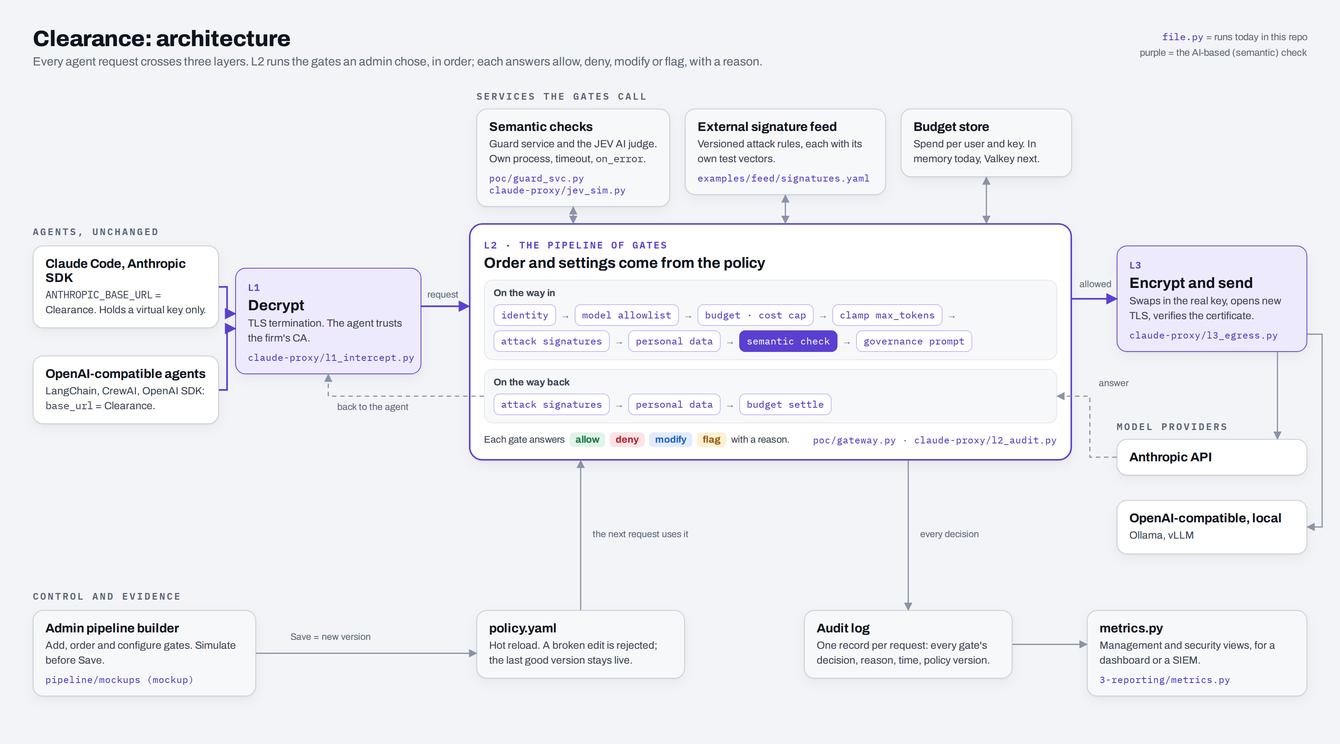
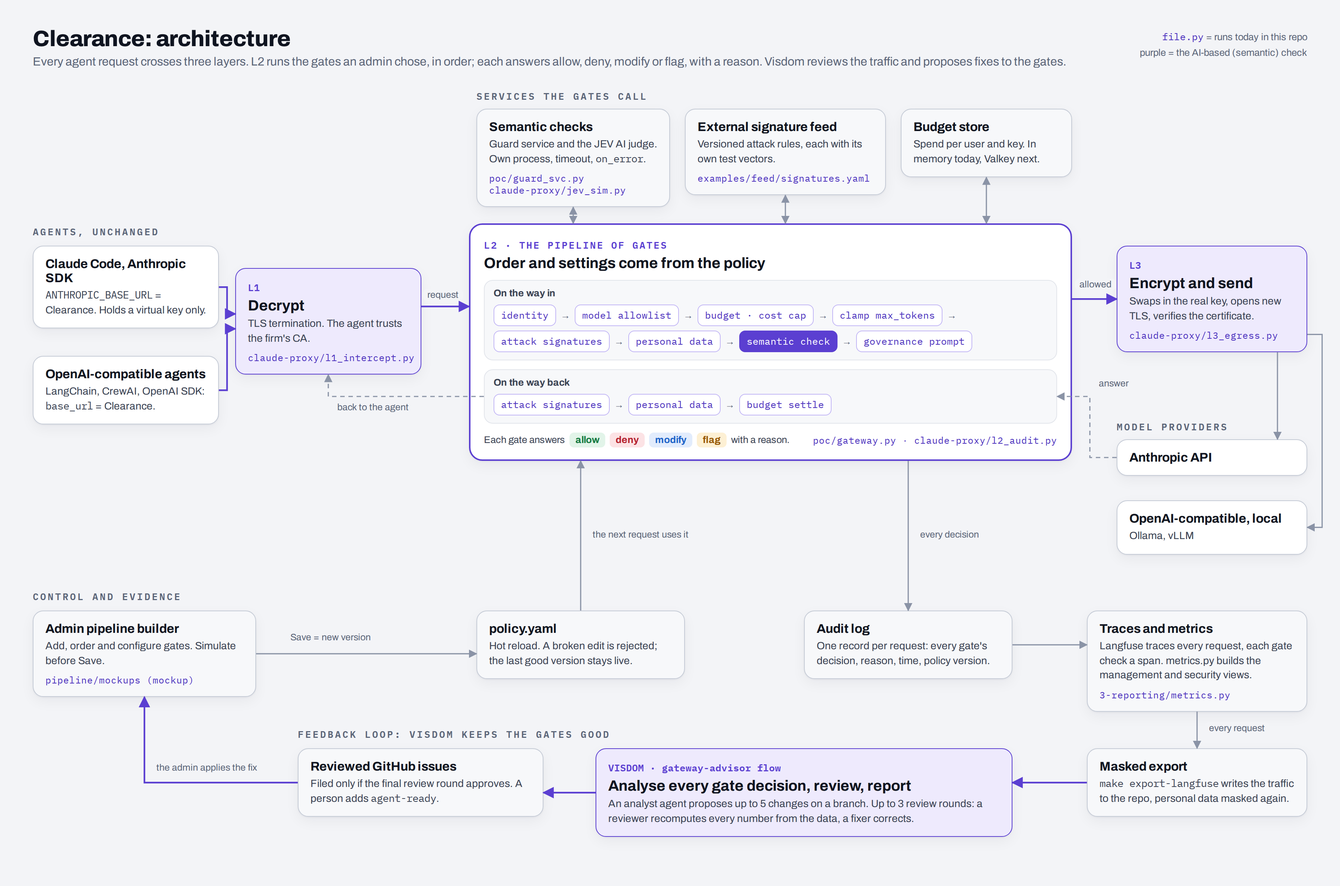
Visdom feedback loop in the submission folders: built with Visdom, gate-quality report, screenshots
- README: "Clearance enforces, Visdom improves" line with a link to how it works
- 1-solution: approach point 6, the live demo build, and the feedback loop (trace in Langfuse ->
  masked export -> Visdom gateway-advisor: analyst, up to 3 review rounds, issues only on approval)
  with the first run's findings and the three mistakes the reviewers caught
- 2-architecture: feedback lane in the diagram, loop components, gate-time share on real traffic
- 3-reporting: demo chat, Langfuse, export and Visdom screenshots (frames from the demo video),
  live-build metrics, gate-quality report
- 4-testing: testing on live traffic; each advisor finding becomes a test case
- 5-implementation: Built with Visdom section; advisor findings first in the next steps

Claude-Session: https://claude.ai/code/session_017G8raWWUm1cMXdBZfFw6tt

diff --git a/2-architecture/architecture.html b/2-architecture/architecture.html
@@ -9,7 +9,7 @@
   :root { --ink:#0f1420; --ink2:#3a4252; --ink3:#5b6578; --line:#c5cbd6; --soft:#f7f8fa; --accent:#5b3fd1; --accent2:#4a2fbd; --asoft:#eeeafd; --aline:#c2b6f5; }
   * { box-sizing: border-box; margin: 0; }
   body { background: #f3f4f7; font-family: "Archivo", Arial, sans-serif; color: var(--ink); }
-  #canvas { position: relative; width: 1800px; height: 1000px; padding: 36px 44px; background: #f3f4f7; }
+  #canvas { position: relative; width: 1800px; height: 1190px; padding: 36px 44px; background: #f3f4f7; }
   h1 { font-size: 30px; font-weight: 800; letter-spacing: -0.5px; }
   .sub { font-size: 16px; color: var(--ink3); margin-top: 6px; }
   .mono { font-family: "IBM Plex Mono", monospace; }
@@ -35,7 +35,7 @@
   .d { font-weight: 700; padding: 3px 8px; border-radius: 6px; }
   .allow { background: #e2f4e9; color: #11793f; } .deny { background: #fce3e5; color: #b4202d; }
   .modify { background: #e2ecfc; color: #1c63c9; } .flag { background: #fdf0d4; color: #975800; }
-  svg#wires { position: absolute; left: 0; top: 0; width: 1800px; height: 1000px; pointer-events: none; overflow: visible; }
+  svg#wires { position: absolute; left: 0; top: 0; width: 1800px; height: 1190px; pointer-events: none; overflow: visible; }
   .wl { position: absolute; font-size: 12.5px; color: var(--ink3); background: #f3f4f7; padding: 1px 6px; border-radius: 6px; white-space: nowrap; }
   .legend { position: absolute; right: 44px; top: 40px; font-size: 13px; color: var(--ink3); text-align: right; line-height: 1.6; }
 </style>
@@ -43,7 +43,7 @@
 <body>
 <div id="canvas">
   <h1>Clearance: architecture</h1>
-  <div class="sub">Every agent request crosses three layers. L2 runs the gates an admin chose, in order; each answers allow, deny, modify or flag, with a reason.</div>
+  <div class="sub">Every agent request crosses three layers. L2 runs the gates an admin chose, in order; each answers allow, deny, modify or flag, with a reason. Visdom reviews the traffic and proposes fixes to the gates.</div>
   <div class="legend"><span class="mono" style="color:#4a2fbd">file.py</span> = runs today in this repo<br>purple = the AI-based (semantic) check</div>
 
   <div class="band" style="left:640px; top:118px">Services the gates call</div>
@@ -99,8 +99,17 @@
   <div class="card svc" id="aud" style="left:1080px; top:820px; width:280px">
     <h3>Audit log</h3><p>One record per request: every gate's decision, reason, time, policy version.</p></div>
   <div class="card svc" id="met" style="left:1460px; top:820px; width:296px">
-    <h3>metrics.py</h3><p>Management and security views, for a dashboard or a SIEM.</p>
+    <h3>Traces and metrics</h3><p>Langfuse traces every request, each gate check a span. metrics.py builds the management and security views.</p>
     <div class="file">3-reporting/metrics.py</div></div>
+
+  <div class="band" style="left:400px; top:975px">Feedback loop: Visdom keeps the gates good</div>
+  <div class="card svc" id="gi" style="left:400px; top:1005px; width:330px">
+    <h3>Reviewed GitHub issues</h3><p>Filed only if the final review round approves. A person adds <span class="mono">agent-ready</span>.</p></div>
+  <div class="card layer" id="va" style="left:800px; top:1005px; width:560px">
+    <div class="tag">VISDOM · gateway-advisor flow</div><h3>Analyse every gate decision, review, report</h3>
+    <p>An analyst agent proposes up to 5 changes on a branch. Up to 3 review rounds: a reviewer recomputes every number from the data, a fixer corrects.</p></div>
+  <div class="card svc" id="fx" style="left:1460px; top:1005px; width:296px">
+    <h3>Masked export</h3><p><span class="mono">make export-langfuse</span> writes the traffic to the repo, personal data masked again.</p></div>
 
   <svg id="wires"><defs>
     <marker id="a" viewBox="0 0 10 10" refX="9" refY="5" markerWidth="7" markerHeight="7" orient="auto-start-reverse"><path d="M0,0 L10,5 L0,10 z" fill="#8a93a6"/></marker>
@@ -126,6 +135,7 @@ function draw() {
   }
   const cc = r('cc'), oa = r('oa'), l1 = r('l1'), l2 = r('l2'), l3 = r('l3'), anth = r('anth'), oss = r('oss');
   const back = r('back'), sem = r('sem'), feed = r('feed'), bud = r('bud'), adm = r('adm'), pol = r('pol'), aud = r('aud'), met = r('met');
+  const gi = r('gi'), va = r('va'), fx = r('fx');
   const mx = (cc.r + l1.l) / 2;
   wire(`M${cc.r},${cc.cy} H${mx} V${l1.cy - 10} H${l1.l}`, { purple: true });
   wire(`M${oa.r},${oa.cy} H${mx} V${l1.cy + 10} H${l1.l}`, { purple: true });
@@ -140,6 +150,10 @@ function draw() {
   wire(`M${aud.cx},${l2.b} V${aud.t}`, { label: 'every decision', lx: aud.cx + 10, ly: (aud.t + l2.b) / 2 - 10 });
   wire(`M${adm.r},${adm.cy} H${pol.l}`, { label: 'Save = new version', lx: adm.r + 40, ly: adm.cy - 30 });
   wire(`M${aud.r},${aud.cy} H${met.l}`, {});
+  wire(`M${met.cx},${met.b} V${fx.t}`, { label: 'every request', lx: met.cx + 10, ly: (met.b + fx.t) / 2 - 10 });
+  wire(`M${fx.l},${fx.cy} H${va.r}`, { purple: true });
+  wire(`M${va.l},${va.cy} H${gi.r}`, { purple: true });
+  wire(`M${gi.l},${gi.cy} H${adm.cx} V${adm.b}`, { purple: true, label: 'the admin applies the fix', lx: adm.cx + 10, ly: gi.cy - 28 });
   document.body.dataset.ready = '1';
 }
 document.fonts.ready.then(draw);

diff --git a/2-architecture/render.js b/2-architecture/render.js
@@ -1,4 +1,4 @@
-// Renders architecture.html to architecture.png (1800x1000 at 2x) with Playwright + Chromium.
+// Renders architecture.html to architecture.png (1800x1190 at 2x) with Playwright + Chromium.
 // Usage from the repo root: NODE_PATH=$(npm root -g) node 2-architecture/render.js
 // Optional FONTS_DIR=/dir/with/fonts.css serves local font copies when Google Fonts can't be reached.
 const fs = require('fs');
@@ -7,7 +7,7 @@ const { chromium } = require('playwright');
 
 (async () => {
   const browser = await chromium.launch();
-  const page = await browser.newPage({ viewport: { width: 1800, height: 1000 }, deviceScaleFactor: 2 });
+  const page = await browser.newPage({ viewport: { width: 1800, height: 1200 }, deviceScaleFactor: 2 });
   const fonts = process.env.FONTS_DIR;
   if (fonts) {
     await page.route('https://fonts.googleapis.com/**', r => r.fulfill({ contentType: 'text/css', body: fs.readFileSync(path.join(fonts, 'fonts.css'), 'utf8') }));

diff --git a/1-solution/README.md b/1-solution/README.md
@@ -24,11 +24,16 @@ and says why. The model's answer goes back through gates too, and every decision
 4. **Both directions.** Response gates check the model's answer: PII, exfiltration links, the real cost.
 5. **Fail closed, explain everything.** By default, a gate that errors or times out means deny. Admins can
    change this per gate. Every decision carries a reason.
+6. **A feedback loop keeps the gates good.** Rules age: a filter starts blocking innocent questions, and new
+   kinds of personal data slip through. [Visdom](https://visdom.virtuslab.com/), VirtusLab's AI-native SDLC
+   platform, reads the gateway's traced traffic, analyses every gate decision, and proposes reviewed fixes
+   ([below](#keeping-the-gates-good-the-visdom-feedback-loop)).
 
-## What exists in this repo
+## What we built
 
 | Part | What it is | State |
 |---|---|---|
+| Live demo build (shown in the demo video) | A demo chat whose every message passes the gateway: `access` → `pii_filter` → `word_filter` → `classifier` (an AI judge for prompt injection) → `jev_checker` (an open model run locally). An admin panel configures and reorders the gates. Langfuse traces every request. The Visdom `gateway-advisor` flow closes the loop | **Runs.** It lives in the team's working repository, not in this one. Screenshots in [`3-reporting/`](../3-reporting/) |
 | [`claude-proxy/`](../claude-proxy/) | The 3-layer proxy for Claude traffic. L1 TLS interception; L2 audit (identity, model allowlist, worst-case cost, budget, AI judge "JEV"); L3 key swap and verified TLS | **Runs.** 13 scenarios pass. The JEV judge is simulated |
 | [`poc/`](../poc/) | The L2 gate pipeline for OpenAI-compatible traffic. 9 gates in policy order, a separate semantic-check service, the external signature feed, a live control plane, an audit log | **Runs.** Every gate is tested |
 | [`pipeline/`](../pipeline/) | The gate contract (JSON envelope), an example pipeline, a latency benchmark, and the admin **pipeline builder** (16 gate types, Simulate, audit chain) | Contract and benchmark run. The builder is an interactive mockup |
@@ -60,9 +65,10 @@ All of these run in Python today. The **Test** column names the automated test i
 | 13 | **Live policy with last-known-good** | Edits apply to the next request. A broken edit or an unknown gate is rejected, and the previous policy stays active | n/a | both | `test_broken_policy_edit_keeps_the_last_good_policy` |
 | 14 | **Audit record per request** | Every gate's decision and reason, timing, policy version | n/a | both | `test_every_request_leaves_one_audit_record` |
 
-\* **Honest status.** `guard_svc.py` scores weighted phrases, and `jev_sim.py` simulates the AI judge. Both stand in for a
-classifier and expose the same HTTP contract. Swapping in a real model (for example Llama Prompt Guard, Qwen3Guard or a
-hosted judge) only changes the URL.
+\* **Honest status.** In this repo's prototypes, `guard_svc.py` scores weighted phrases, and `jev_sim.py` simulates the AI judge.
+Both stand in for a classifier and expose the same HTTP contract. Swapping in a real model (for example Llama Prompt Guard,
+Qwen3Guard or a hosted judge) only changes the URL. The live demo build already runs real models: `classifier` is an AI
+judge (in the demo it stops a prompt injection at 97 % and says why), and `jev_checker` runs an open model locally.
 
 **Designed and shown in the admin mockup, not yet in Python:**
 - `normalize`: invisible characters, look-alike letters, leetspeak.
@@ -134,16 +140,55 @@ request:
 
 The contract (JSON envelope in, allow / deny / modify / flag plus a reason out) is in [`pipeline/contract.md`](../pipeline/contract.md).
 
+## Keeping the gates good: the Visdom feedback loop
+
+Gates are only as good as their rules, and traffic keeps changing. A filter starts blocking innocent questions, or a new
+kind of personal data slips through. Tests can't catch that, because they only check the rules someone already wrote.
+So a second system supervises Clearance: [Visdom](https://visdom.virtuslab.com/), VirtusLab's AI-native SDLC platform.
+It reads the gateway's traced traffic, analyses every gate decision, and proposes reviewed fixes to the team.
+
+1. **Trace.** The gateway traces every request in Langfuse, blocked ones included. Each gate check is its own span,
+   next to the model call, with cost and tokens.
+2. **Export.** `make export-langfuse` writes the traffic to `analytics/langfuse-export.json` in the repository. Each record
+   holds the outcome, every gate's verdict, the user's prompt and the prompt as sent. Personal data is masked again
+   on the way out, so the file holds no raw PESEL, e-mail or IBAN.
+3. **Analyse.** The Visdom flow `gateway-advisor` starts. An analyst agent (Opus) reads the export and proposes up to
+   five changes on a branch.
+4. **Review.** Up to three review rounds follow. A reviewer agent recomputes every number from the data, and a fixer
+   agent (Sonnet) corrects what doesn't hold. A round that approves ends the loop early.
+5. **Report.** Only an approved final round files GitHub issues, labelled `gateway-advisor`. A person adds `agent-ready`
+   before anyone acts on one. The admin then applies the fix in the admin panel, and the next request uses it.
+
+Visdom works on the exported traffic, outside the request path, so it never slows a request down.
+
+![The gateway-advisor run: flow, analyst summary, proposals under review](../3-reporting/screenshots/visdom-advisor-findings.jpg)
+
+**The first run, on our own traffic.** 59 gateway calls and 360 gate verdicts (46 passed, 13 stopped), 38 minutes from trigger to result:
+
+| Proposal | What the analyst found |
+|---|---|
+| fix `pii_filter` | A Polish ID card number and a NIP (tax number) reached the model |
+| fix `word_filter` | 3 of its 6 blocks were innocent words: matching on word prefixes gives 50 % false alarms |
+| add `output_guard` | No gate checks the model's answers. None of the 46 answers was checked |
+| tune `classifier` | It takes 82.8 % of gate time. Lower its threshold from 50 to 25, and cache repeated prompts: 57 % of its time goes to duplicates |
+| tune `jev_checker` | It never fired: its p(yes) stayed at 0.01–0.05 even on obvious prompt injections, while it took 16.6 % of gate time |
+
+The reviewers did their job too. Each of the three rounds found a real problem in the analyst's own proposals:
+a count that did not reproduce, an either/or remedy, and a regex that missed its own criterion. The fixer corrected
+each one. No round approved the final set, so no issue was filed and nothing unreviewed reached the team. A resume
+flow re-reviews the branch and files the issues once a round approves.
+
 ## How this answers the brief
 
 | The task asks for | Where |
 |---|---|
 | Centralised policy engine: thresholds, block vs redact, models, budgets | one policy file per gateway, hot-reloaded; [three profiles](profiles/) |
 | Deterministic controls (PII, secrets, authentication, access) | guardrails 1–7, 11, 12 above (secrets scanning: mockup only so far) |
-| Semantic, AI-based controls | guardrails 8–10 (simulated models behind real service contracts) |
+| Semantic, AI-based controls | guardrails 8–10: simulated models behind real service contracts in the prototypes; an AI judge and a local open model in the live build |
 | Budgets for commercial APIs and local models | guardrails 3–5; `upstreams` routes local models (Ollama) through the same gates |
 | Historical attacks from an externally managed feed | guardrail 7: [`examples/feed/signatures.yaml`](../examples/feed/signatures.yaml), each rule self-tested on load |
-| Reporting for management and security | [`3-reporting/`](../3-reporting/) |
+| Reporting for management and security | [`3-reporting/`](../3-reporting/): audit records, metrics, Langfuse traces |
 | Self-testing suite | [`4-testing/`](../4-testing/): 76 + 120 checks |
+| Guardrails that stay right as traffic changes (beyond the brief) | the [Visdom feedback loop](#keeping-the-gates-good-the-visdom-feedback-loop) |
 | Architecture and performance | [`2-architecture/`](../2-architecture/) |
 | Deployment into existing agent ecosystems | [`5-implementation/`](../5-implementation/README.md#deploying-into-existing-agent-ecosystems) |

diff --git a/3-reporting/README.md b/3-reporting/README.md
@@ -4,10 +4,41 @@ Every request leaves **one audit record** with every gate's decision and reason.
 - **Management** sees volume, spend, block rate and latency.
 - **Security** sees what was stopped and by which gate: attack-signature hits, personal data, flags to review, outages, and which policy version decided.
 
-The admin dashboard (a mockup) shows both. The two prototypes write the records as JSON Lines, and
-[`metrics.py`](metrics.py) turns real logs into both views.
+In the live demo build, the chat shows every gate's verdict under each answer, and Langfuse traces every request.
+The admin dashboard (a mockup) shows both views. The two prototypes in this repo write the records as JSON Lines, and
+[`metrics.py`](metrics.py) turns real logs into both views. A third report, from [Visdom](https://visdom.virtuslab.com/),
+tells the gate owners where the gates themselves are wrong.
 
-## The dashboard
+## The live demo build
+
+| Demo chat: every message passes the gateway |
+|---|
+| ![demo chat](screenshots/demo-chat.jpg) |
+| The strip under the answer shows each gate's verdict. **What the model received** shows what changed ("Goldman Sachs" → "Client"). A blocked message names the gate and the reason: `word_filter` for a blocked word, `classifier` at 97 % for a prompt injection |
+
+| Langfuse: traces, cost and tokens for every request | Masked export of the gateway traffic |
+|---|---|
+| ![Langfuse](screenshots/langfuse.jpg) | ![export](screenshots/langfuse-export.jpg) |
+| Every request is traced, blocked ones included, with each gate check as its own span. Over one day: 85 traces (chat, gateway, classify), $1.26 of model cost, 431K tokens | `make export-langfuse`: 59 gateway calls, 46 passed, 13 stopped on the way in, verdict counts per gate, and 0 raw PESEL, e-mail or IBAN in the file |
+
+## Gate-quality report (Visdom)
+
+Visdom's `gateway-advisor` flow reads the masked export and reports where the gates are wrong. An analyst agent writes the proposals,
+and up to three review rounds check every number against the data before anything is filed as a GitHub issue
+([how it works](../1-solution/README.md#keeping-the-gates-good-the-visdom-feedback-loop)).
+
+![Visdom run](screenshots/visdom-run.jpg)
+
+The first run on our own traffic made five proposals:
+- fix `pii_filter`: ID card and NIP numbers got through;
+- fix `word_filter`: 3 of its 6 blocks were innocent words;
+- add `output_guard`: none of the 46 answers was checked;
+- tune `classifier`: 82.8 % of gate time;
+- tune `jev_checker`: it never fired.
+
+The review rounds also caught three mistakes in the analyst's own work, so no unreviewed issue reached the team.
+
+## The admin dashboard (mockup)
 
 Interactive mockup, with gates simulated in the browser: [GitHub Pages](https://damianlech.github.io/HackYeah26/) (branch `page`), or open
 [`pipeline/mockups/pipeline-builder.html`](../pipeline/mockups/pipeline-builder.html). Pins on every module explain what it does,
@@ -75,6 +106,14 @@ The full report also has per-user activity, signature hits by rule and action, p
 | Tamper evidence: hash chain and Verify | security | SHA-256 of previous hash + record | mockup only | Audit tab |
 | Exports | security | JSONL (both prototypes), `metrics.py --json` | yes | JSONL, CSV |
 
+In the live demo build:
+
+| Metric | For | Comes from |
+|---|---|---|
+| Every request traced, blocked ones included; each gate check as a span; cost and tokens per model | both | Langfuse |
+| Verdict counts per gate: allow, modify, deny, error | security | the masked export |
+| Gate quality: false-alarm rate, personal data that got through, answers nobody checked, each gate's share of gate time | gate owners | Visdom `gateway-advisor` |
+
 In real time, every response also carries its decision in headers:
 - `poc`: `X-Mandate-Decision`, `X-Mandate-Policy`, `X-Mandate-Event` (the audit id).
 - `claude-proxy`: `x-proxy-decision`, `x-proxy-jev`, `x-proxy-cost-usd`.
@@ -117,5 +156,6 @@ Records hold decisions, reasons and counts. They never hold the prompt or the pe
 | | `PATCH /control/controls/{gate}`, `POST /control/budget/reset` | live changes, written back to `policy.yaml` |
 | `claude-proxy` (8601) | `GET /status` | spend per key, judge thresholds, allowed models |
 
-**Not done yet:** the mockup dashboard shows simulated data. Its record shape is close to the prototypes', and wiring
-`metrics.py --json` into it is the next step. `claude-proxy` records don't carry a policy version yet. The hash chain exists only in the mockup.
+**Not done yet:** the mockup dashboard shows simulated data, while the live build's numbers come from Langfuse and the export.
+The mockup's record shape is close to the prototypes', and wiring `metrics.py --json` into it is the next step. `claude-proxy` records
+don't carry a policy version yet. The hash chain exists only in the mockup.

diff --git a/2-architecture/README.md b/2-architecture/README.md
@@ -20,6 +20,9 @@ Detailed flows: [request flow](../pipeline/diagrams/request-flow.png) ·
 | Signature feed | file, outside the gateway | 21 versioned rules (serial 42, with an expiry date), each with positive and negative test vectors. The gateway compiles the 10 it can evaluate on chat traffic | [`examples/feed/signatures.yaml`](../examples/feed/signatures.yaml) |
 | Policy | one YAML file per gateway | Re-read on the next request. A broken edit is rejected | [`poc/policy.yaml`](../poc/policy.yaml), [`claude-proxy/policy.yaml`](../claude-proxy/policy.yaml) |
 | Admin builder | browser | Add, order and configure gates; Simulate; audit trail with Verify | [`pipeline/mockups/`](../pipeline/mockups/) (mockup) |
+| Tracing | Langfuse (live build) | Every request, blocked ones included. Each gate check is a span next to the model call, with cost and tokens | live demo build |
+| Masked export | `make export-langfuse` (live build) | Writes the traffic to `analytics/langfuse-export.json` in the repository, with personal data masked again | live demo build |
+| **Visdom `gateway-advisor`** | a flow in the Visdom Orchestrator | An analyst agent proposes gate fixes; up to 3 review rounds check them; GitHub issues are filed only after approval. Runs outside the request path | [Visdom](https://visdom.virtuslab.com/) |
 
 ## One request, step by step
 
@@ -30,6 +33,11 @@ Detailed flows: [request flow](../pipeline/diagrams/request-flow.png) ·
 4. **L3** swaps in the real key, re-encrypts, and checks the provider's certificate.
 5. The answer runs through the **response gates**: exfiltration links stripped, personal data redacted, real cost charged. It then goes back through L1.
 6. **One audit record** is written per request: every gate's decision and reason, the time taken, and the policy version.
+
+Over many requests, the traces feed the loop in the diagram's bottom lane. Langfuse traces are exported with personal data
+masked. Visdom's `gateway-advisor` flow analyses every gate decision and files reviewed GitHub issues, and the admin changes
+the pipeline. The next request uses the new version. Details and the first run's findings are in
+[`1-solution`](../1-solution/README.md#keeping-the-gates-good-the-visdom-feedback-loop).
 
 ## Design choices
 
@@ -42,6 +50,7 @@ Detailed flows: [request flow](../pipeline/diagrams/request-flow.png) ·
 | Policy is data, re-read on the next request | Admins change behaviour in seconds without a restart. The last good version stays live if an edit is broken |
 | Response gates as well as request gates | The model can leak too: personal data, exfiltration links, risky tool calls |
 | The audit record is written by the runner, not by a gate | An admin cannot remove the log by editing the pipeline |
+| A second system checks the gates | Rules drift as traffic changes. Visdom reviews real traffic outside the request path, so improving the gates never slows a request |
 
 ## Performance
 
@@ -84,6 +93,13 @@ What this means:
 - In the prototypes, about **40 ms per hop is HTTP client set-up**, not enforcement. Each call opens a new `httpx` client, and that builds a TLS context.
   The same overhead appears in `poc/` end to end: allowed in 43.7 ms with deterministic gates only, 88.1 ms with the semantic service.
   Of that, the gates themselves take 78 µs. The fix is the first row below.
+
+### On real traffic
+
+Visdom's advisor measured the live demo build's gates on 59 real requests. The two AI-based checks took **99.4 % of all gate time**
+(`classifier` 82.8 %, `jev_checker` 16.6 %); the three rule-based gates (`access`, `pii_filter`, `word_filter`) took the remaining 0.6 %.
+That matches the measurements above, and it is why the AI checks run last. The advisor also proposed caching repeated prompts,
+because 57 % of the classifier's time went to duplicates.
 
 ### Optimisations, with measured gains
 

diff --git a/5-implementation/README.md b/5-implementation/README.md
@@ -14,6 +14,7 @@
 | [`2-architecture/perf/`](../2-architecture/perf/) | Python | ~250 | Deterministic vs AI-based enforcement latency on the prototypes |
 | [`3-reporting/`](../3-reporting/) | Python | ~220 | `metrics.py` (management and security metrics from audit logs) and `sample_traffic.py` |
 | [`4-testing/`](../4-testing/), [`pipeline/mockups/tests/`](../pipeline/mockups/tests/) | Python (pytest), JS (Playwright) | ~1,100 | 76 + 120 automated checks |
+| Live demo build | | | Demo chat, gateway with five gates, admin panel, Langfuse tracing, the masked export and the Visdom flow. It lives in the team's working repository, not in this one, and the demo video shows it end to end |
 
 ## Run it
 
@@ -38,6 +39,21 @@ Point a real agent at the 3-layer proxy: `python3 claude-proxy/demo.py --keep`, 
 ANTHROPIC_BASE_URL=https://localhost:8443 NODE_EXTRA_CA_CERTS=claude-proxy/.runtime/certs/interception-ca.pem \
 ANTHROPIC_API_KEY=sk-proxy-alice claude
 ```
+
+## Built with Visdom
+
+The live demo build closes its feedback loop with [Visdom](https://visdom.virtuslab.com/), VirtusLab's AI-native SDLC platform.
+The loop works on exported traffic, outside the request path, so it adds no latency to any request.
+
+| Piece | What it is |
+|---|---|
+| Tracing | The gateway sends every request to Langfuse: each gate check is a span next to the model call, with cost and tokens |
+| Export | `make export-langfuse` writes `analytics/langfuse-export.json` and commits it to the repository, with personal data masked again |
+| Flow | `gateway-advisor` (version 3) in the Visdom Orchestrator. Its inputs are the repository and the export path |
+| Steps | trigger → `analyst` agent (Opus, at most 5 proposals, written to a branch) → up to three review sub-flows (a reviewer recomputes every number, a fixer on Sonnet corrects, and an approving round stops early) → `file-issues` task (`gh`, label `gateway-advisor`) |
+| People | Nothing is filed without an approved review round. A person adds the `agent-ready` label before anyone acts on an issue |
+
+![Visdom run](../3-reporting/screenshots/visdom-run.jpg)
 
 ## Deploying into existing agent ecosystems
 
@@ -100,9 +116,14 @@ On **Kubernetes**:
 | Tool calls (MCP) and agent-to-agent traffic are not governed yet | | an MCP entry point that runs the same gates; `tool_guard` on answers |
 
 **Next, in order:**
-1. Shared HTTP clients.
-2. The gate runner over the contract, with the response phase and the restart guard.
-3. Atomic budgets in Valkey.
-4. Real semantic models.
-5. The hash-chained audit, with the dashboard fed by `metrics.py --json`.
-6. MCP and `tool_guard`.
+1. Act on the advisor's first findings in the live build:
+   - ID card and NIP numbers in `pii_filter`;
+   - whole-word matching in `word_filter`;
+   - an `output_guard` for answers, ported from `poc/`'s response gates;
+   - caching in `classifier`.
+2. Shared HTTP clients.
+3. The gate runner over the contract, with the response phase and the restart guard.
+4. Atomic budgets in Valkey.
+5. Real semantic models in the prototypes (the live build already runs them).
+6. The hash-chained audit, with the dashboard fed by `metrics.py --json`.
+7. MCP and `tool_guard`.

diff --git a/4-testing/README.md b/4-testing/README.md
@@ -76,8 +76,26 @@ an unknown gate name is rejected · the gate order is configuration · three str
 **Evidence:** one audit record per request with policy version, user, decision, time and findings · every block carries a reason ·
 both TLS sessions are recorded · L2 scores everything the model will read (system prompt, tool results, tool descriptions).
 
+## Testing on live traffic: the Visdom loop
+
+The tests above prove that each gate does what it is configured to do. They can't tell whether the configuration is still right for
+real traffic. That is the job of Visdom's `gateway-advisor` flow ([how it works](../1-solution/README.md#keeping-the-gates-good-the-visdom-feedback-loop)).
+It reads the traced traffic of the live demo build and reports where the gates are wrong. Its reviewer agent recomputes every number
+from the data before anything reaches the team, so the report itself is checked: on the first run, the reviewers caught three
+mistakes in the analyst's own proposals.
+
+That first run found gaps that no test covered. Each one becomes a test case once it is fixed:
+
+| Finding on live traffic | Test case it adds |
+|---|---|
+| A Polish ID card number and a NIP (tax number) passed `pii_filter` | both are masked before the model sees them, and numbers that fail their checksum stay untouched (the rule `poc/` already tests for PESEL and cards) |
+| `word_filter` blocked innocent words that only share a prefix with a blocked word | the innocent words pass and the blocked word is still stopped (whole-word matching) |
+| No gate checked the model's answers | an answer with personal data or an exfiltration link is cleaned before it returns (what `poc/`'s response gates do, tested above) |
+| `jev_checker` never fired, even on obvious prompt injections | known prompt injections score above its threshold (the gate stays; the advisor proposed tuning it) |
+
 ## Not covered yet
 
 - Load and soak tests. Latency is measured separately in [`2-architecture/perf`](../2-architecture/perf/RESULTS.md).
 - Concurrency races on the budget. The current budgets are per-process and check-then-charge; the fix is designed in [`pipeline/README.md`](../pipeline/README.md) §2.
-- Gates that so far exist only in the mockup (normalize, word filter, secrets scan, tool guard). They are covered by the 120 browser checks, not by Python tests.
+- Gates that this repo has only in the mockup (normalize, word filter, secrets scan, tool guard). They are covered by the 120 browser checks, not by Python tests.
+  The live build's own gates are checked on real traffic by Visdom (above).

diff --git a/README.md b/README.md
@@ -2,14 +2,18 @@
 
 > **No AI request leaves the firm without clearance.** Admins build a pipeline of gates: identity, budget, personal data,
 > attack signatures, an AI judge. Every agent request is checked, rewritten or stopped, and every decision is on the record.
+>
+> **Clearance enforces, Visdom improves.** Built with [Visdom](https://visdom.virtuslab.com/), VirtusLab's AI-native SDLC platform.
+> A Visdom flow reads the gateway's real traffic and proposes reviewed fixes to the gates
+> ([how it works](1-solution/README.md#keeping-the-gates-good-the-visdom-feedback-loop)).
 
 ## Submission (Goldman Sachs template)
 
 | Folder | What's inside |
 |---|---|
-| [`1-solution/`](1-solution/) | Overview and approach, the implemented guardrails, configuration, and three strictness profiles |
+| [`1-solution/`](1-solution/) | Overview and approach, the implemented guardrails, configuration, three strictness profiles, and the Visdom feedback loop that keeps the gates good |
 | [`2-architecture/`](2-architecture/) | Architecture diagram, components, measured latency of deterministic vs AI-based enforcement |
-| [`3-reporting/`](3-reporting/) | Dashboard screenshots, the implemented metrics, a metrics report built from real logs |
+| [`3-reporting/`](3-reporting/) | Screenshots of the demo chat, Langfuse and the dashboard, the implemented metrics, a metrics report from real logs, and Visdom's gate-quality report |
 | [`4-testing/`](4-testing/) | 76 automated tests plus 120 browser checks, and 18 showcase cases that block or rewrite traffic |
 | [`5-implementation/`](5-implementation/) | Code map, how to run it, deployment into Claude Code, SDK and OpenAI-compatible agents and Kubernetes, limits and next steps |
 
